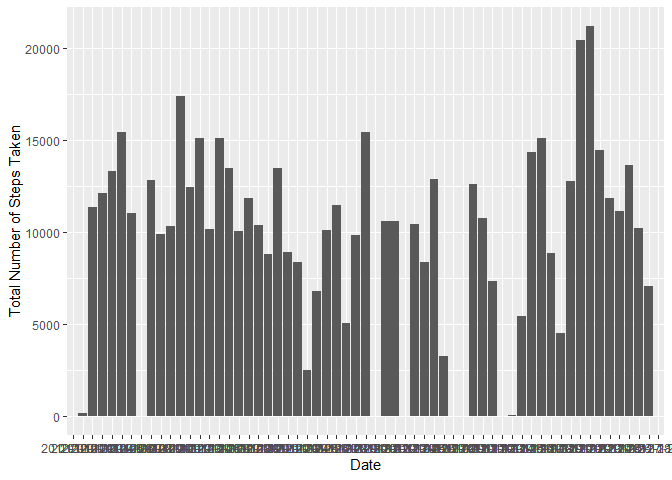
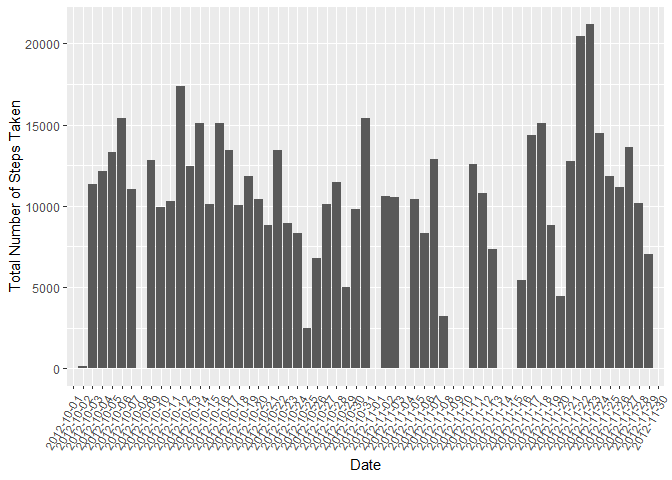
Dates fixed

diff --git a/PA1_template.html b/PA1_template.html
@@ -368,7 +368,7 @@ summary {
 
 <pre class="r"><code>library(dplyr)
 library(ggplot2)
-#library(scales)
+library(scales)
 library(mice)</code></pre>
 <div id="loading-and-preprocessing-the-data" class="section level2">
 <h2>Loading and preprocessing the data</h2>
@@ -389,8 +389,9 @@ total_steps_by_date &lt;- activity %&gt;% group_by(date) %&gt;% summarize(steps=
 # 2. Make a histogram of the total number of steps taken each day
 plot1 &lt;- ggplot(activity, aes(x=date, weights=steps)) 
 plot1 &lt;- plot1 + labs(x = &quot;Date&quot;, y = &quot;Total Number of Steps Taken&quot;)
+plot1 &lt;- plot1 + theme(axis.text.x=element_text(angle=60, hjust=1))
 plot1 + geom_histogram(stat=&quot;count&quot;)</code></pre>
[2 lines of base64/hex data omitted]
 <pre class="r"><code># 3.Calculate and report the mean and median of the total number of steps taken per day
 
 mean_total_steps &lt;- mean(total_steps_by_date$steps, na.rm=TRUE)
@@ -437,8 +438,9 @@ total_imputed_steps_by_date &lt;- imputed_activity %&gt;% group_by(date) %&gt;% 
 
 plot3 &lt;- ggplot(imputed_activity, aes(x=date, weights=steps)) 
 plot3 &lt;- plot3 + labs(x = &quot;Date&quot;, y = &quot;Total Number of Steps Taken&quot;)
+plot3 &lt;- plot3 + theme(axis.text.x=element_text(angle=60, hjust=1))
 plot3 + geom_histogram(stat=&quot;count&quot;)</code></pre>
[2 lines of base64/hex data omitted]
 <pre class="r"><code>mean_total_imputed_steps &lt;- mean(total_imputed_steps_by_date$steps, na.rm=TRUE)
 median_total_imputed_steps &lt;- median(total_imputed_steps_by_date$steps, na.rm=TRUE)</code></pre>
 <p>The mean total imputed number of steps is 10766.19.<br />
@@ -447,7 +449,11 @@ The imputed mena and median are slightly higher than the original data.</p>
 </div>
 <div id="are-there-differences-in-activity-patterns-between-weekdays-and-weekends" class="section level2">
 <h2>Are there differences in activity patterns between weekdays and weekends?</h2>
-<pre class="r"><code>average_steps_by_interval_weekend &lt;- activity %&gt;% mutate(dow=(as.POSIXlt(date)$wday)) %&gt;% mutate(wd=ifelse((dow &gt; 0 &amp; dow &lt; 6), &quot;weekday&quot;, &quot;weekend&quot;)) %&gt;% group_by(interval, wd) %&gt;% summarize(mean_steps=mean(steps, na.rm=TRUE))
+<pre class="r"><code># 1. Create a new factor variable in the dataset with two levels – “weekday” and “weekend” indicating whether a given date is a weekday or weekend day.
+
+average_steps_by_interval_weekend &lt;- activity %&gt;% mutate(dow=(as.POSIXlt(date)$wday)) %&gt;% mutate(wd=ifelse((dow &gt; 0 &amp; dow &lt; 6), &quot;weekday&quot;, &quot;weekend&quot;)) %&gt;% group_by(interval, wd) %&gt;% summarize(mean_steps=mean(steps, na.rm=TRUE))
+
+# 2. Make a panel plot containing a time series plot type = &quot;l&quot; of the 5-minute interval (x-axis) and the average number of steps taken, averaged across all weekday days or weekend days (y-axis). See the README file in the GitHub repository to see an example of what this plot should look like using simulated data.
 
 plot4 &lt;- ggplot(average_steps_by_interval_weekend, aes(interval, mean_steps)) 
 plot4 &lt;- plot4 + facet_grid(wd ~ .)

diff --git a/PA1_template.md b/PA1_template.md
@@ -9,7 +9,7 @@ output:
 ```r
 library(dplyr)
 library(ggplot2)
-#library(scales)
+library(scales)
 library(mice)
 ```
 
@@ -37,6 +37,7 @@ total_steps_by_date <- activity %>% group_by(date) %>% summarize(steps=sum(steps
 # 2. Make a histogram of the total number of steps taken each day
 plot1 <- ggplot(activity, aes(x=date, weights=steps)) 
 plot1 <- plot1 + labs(x = "Date", y = "Total Number of Steps Taken")
+plot1 <- plot1 + theme(axis.text.x=element_text(angle=60, hjust=1))
 plot1 + geom_histogram(stat="count")
 ```
 
@@ -106,6 +107,7 @@ total_imputed_steps_by_date <- imputed_activity %>% group_by(date) %>% summarize
 
 plot3 <- ggplot(imputed_activity, aes(x=date, weights=steps)) 
 plot3 <- plot3 + labs(x = "Date", y = "Total Number of Steps Taken")
+plot3 <- plot3 + theme(axis.text.x=element_text(angle=60, hjust=1))
 plot3 + geom_histogram(stat="count")
 ```
 
@@ -124,7 +126,11 @@ The imputed mena and median are slightly higher than the original data.
 
 
 ```r
+# 1. Create a new factor variable in the dataset with two levels – “weekday” and “weekend” indicating whether a given date is a weekday or weekend day.
+
 average_steps_by_interval_weekend <- activity %>% mutate(dow=(as.POSIXlt(date)$wday)) %>% mutate(wd=ifelse((dow > 0 & dow < 6), "weekday", "weekend")) %>% group_by(interval, wd) %>% summarize(mean_steps=mean(steps, na.rm=TRUE))
+
+# 2. Make a panel plot containing a time series plot type = "l" of the 5-minute interval (x-axis) and the average number of steps taken, averaged across all weekday days or weekend days (y-axis). See the README file in the GitHub repository to see an example of what this plot should look like using simulated data.
 
 plot4 <- ggplot(average_steps_by_interval_weekend, aes(interval, mean_steps)) 
 plot4 <- plot4 + facet_grid(wd ~ .)
